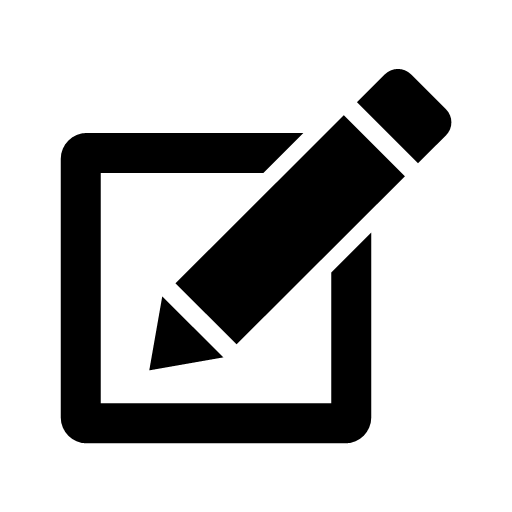
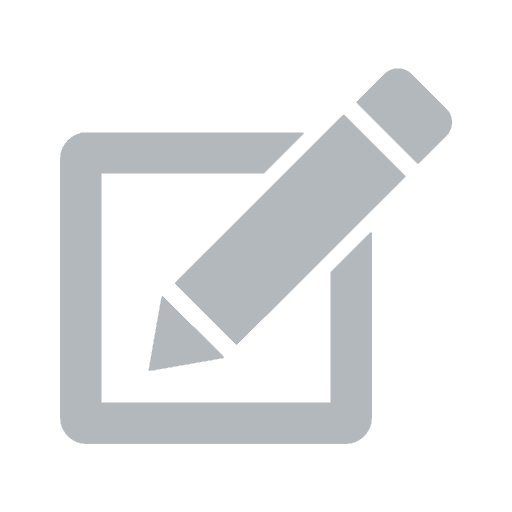
Update component styling

Changed region(s): [[0.0938, 0.2188, 0.7812, 0.875], [0.6875, 0.125, 0.9062, 0.3125]]

diff --git a/src/components/Modal/styles.ts b/src/components/Modal/styles.ts
@@ -1,0 +1,92 @@
+import styled from 'styled-components';
+
+export const Container = styled.div`
+  position: absolute;
+  border-radius: 5px;
+  left: 35%;
+  top: 25%;
+  width: 30%;
+  height: 50%;
+  border: 1px black solid;
+  background: #252525;
+  animation-name: animatetop;
+  animation-duration: 0.4s;
+
+  @keyframes animatetop {
+    from {
+      top: -300px;
+      opacity: 0;
+    }
+    to {
+      top: 25%;
+      opacity: 1;
+    }
+  }
+`;
+
+export const Avatar = styled.img`
+  position: relative;
+  border-radius: 50%;
+  display: block;
+  margin-left: auto;
+  margin-right: auto;
+  bottom: 40px;
+  width: 40%;
+`;
+
+export const NameField = styled.div`
+  align-items: center;
+  margin: 3% 10%;
+  border-bottom: 1px solid #000;
+  width: 80%;
+  color: #b3b8bc;
+`;
+
+export const Username = styled.div`
+  /* content: ''; */
+  flex: 1 1 auto;
+  margin-left: 10%;
+  color: #b3b8bc;
+`;
+
+export const BioField = styled.div`
+  align-items: center;
+  margin: 3% 10%;
+  border-bottom: 1px solid #000;
+  width: 80%;
+  color: #b3b8bc;
+`;
+
+export const Bio = styled.div`
+  color: #b3b8bc;
+  flex: 1 1 auto;
+  margin-left: 10%;
+  width: 80%;
+`;
+
+export const Exit = styled.div`
+  position: absolute;
+  top: 0;
+  right: 7px;
+  font-size: 28px;
+  font-weight: bold;
+  color: #b3b8bc;
+  &:hover,
+  :focus {
+    color: white;
+    text-decoration: none;
+    cursor: pointer;
+  }
+`;
+
+export const Edit = styled.img`
+  position: absolute;
+  right: 10%;
+  top: 40%;
+  width: 5%;
+`;
+
+export const ProfileFields = styled.div`
+  position: relative;
+  bottom: 5%;
+`;

diff --git a/src/components/UserListCard/styles.ts b/src/components/UserListCard/styles.ts
@@ -1,0 +1,31 @@
+import styled from 'styled-components';
+
+export const UserProfile = styled.div`
+  position: relative;
+  max-height: 10rem;
+  width: 15%;
+  border: 1px #252525 solid;
+  border-radius: 3px;
+  margin: 10px 10px;
+  text-align: center;
+  background: #252525;
+  color: #b3b8bc;
+
+  &:hover {
+    box-shadow: rgba(0, 0, 0, 0.08) 0px 10px 40px 2px;
+    transform: scale3d(1.01, 1.01, 1);
+  }
+`;
+
+export const Avatar = styled.img`
+  border-radius: 50%;
+  height: 50%;
+  margin: 10px 0 5px 0;
+`;
+
+export const ViewMore = styled.a`
+  position: relative;
+  top: 20px;
+`;
+
+export const Username = styled.div``;

diff --git a/src/components/UserList/UserList.tsx b/src/components/UserList/UserList.tsx
@@ -1,6 +1,6 @@
 import React from 'react';
 import User from '../../interfaces/User.interface';
-import UserListRow from '../UserListRow/UserListRow';
+import UserListCard from '../UserListCard/UserListCard';
 
 import { Container } from './styles';
 
@@ -8,7 +8,8 @@ const UserList = ({ users }: any) => {
   return (
     <Container>
       {users.map((user: User) => {
-        return <UserListRow username={user.login} avatar={user.avatar_url} />;
+        console.log(user);
+        return <UserListCard key={user.id} username={user.login} avatar={user.avatar_url} />;
       })}
     </Container>
   );

diff --git a/src/components/UserListCard/UserListCard.tsx b/src/components/UserListCard/UserListCard.tsx
@@ -1,0 +1,17 @@
+import React, { Fragment } from 'react';
+
+import { Avatar, Username, UserProfile, ViewMore } from './styles';
+
+const UserListCard = ({ username, avatar }: { username: string; avatar: string }) => {
+  return (
+    <Fragment>
+      <UserProfile>
+        <Avatar src={avatar} />
+        <Username>{username}</Username>
+        <ViewMore>View More</ViewMore>
+      </UserProfile>
+    </Fragment>
+  );
+};
+
+export default UserListCard;

diff --git a/src/components/Login/styles.ts b/src/components/Login/styles.ts
@@ -1,0 +1,20 @@
+import styled from 'styled-components';
+
+export const GitHubLogIn = styled.a`
+  text-decoration: none;
+  color: white;
+  font-family: monospace;
+  border: 1px #e5c453 solid;
+  border-radius: 3px;
+  background: #484848;
+  padding: 20px 15px;
+  position: fixed;
+  top: 65%;
+  left: 50%;
+  transform: translate(-50%);
+
+  &:hover {
+    color: black;
+    background: #e5c453;
+  }
+`;

diff --git a/src/components/Modal/Modal.tsx b/src/components/Modal/Modal.tsx
@@ -24,7 +24,7 @@ const Modal = () => {
         </Username>
         <BioField>
           Bio
-          <Edit src='https://icons-for-free.com/iconfiles/png/512/edit+pen+pencil+icon-1320183237584811650.png' />
+          <Edit src='https://i.imgur.com/J2p7LEN.png' />
         </BioField>
         <Bio>
           I love coding! JavaScript and React are my favorite. When I'm not coding, you can catch me

diff --git a/src/components/Login/Login.tsx b/src/components/Login/Login.tsx
@@ -6,7 +6,7 @@ const Login = () => {
   return (
     <Fragment>
       <GitHubLogIn href='https://github.com/login/oauth/authorize?client_id=6f7c14d6f3a82966cbb6'>
-        Sign In Using GitHub
+        Login With GitHub
       </GitHubLogIn>
     </Fragment>
   );

diff --git a/src/components/UserList/styles.ts b/src/components/UserList/styles.ts
@@ -1,0 +1,7 @@
+import styled from 'styled-components';
+
+export const Container = styled.div`
+  display: flex;
+  flex-wrap: wrap;
+  margin: 0 50px;
+`;
